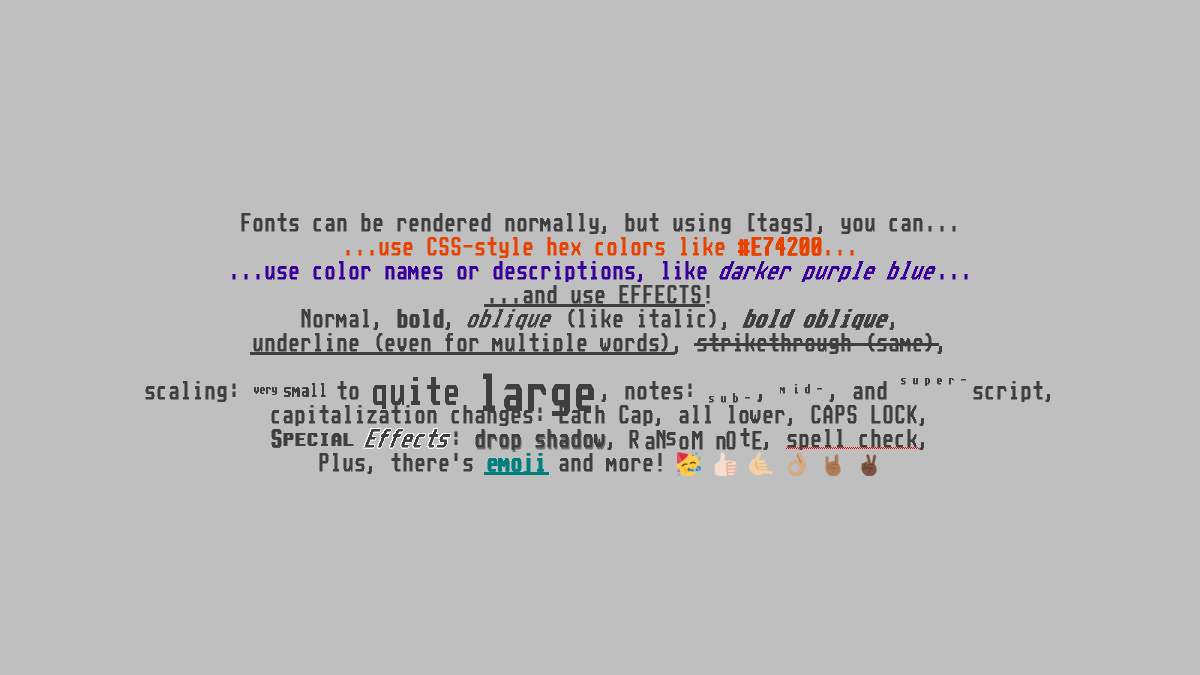
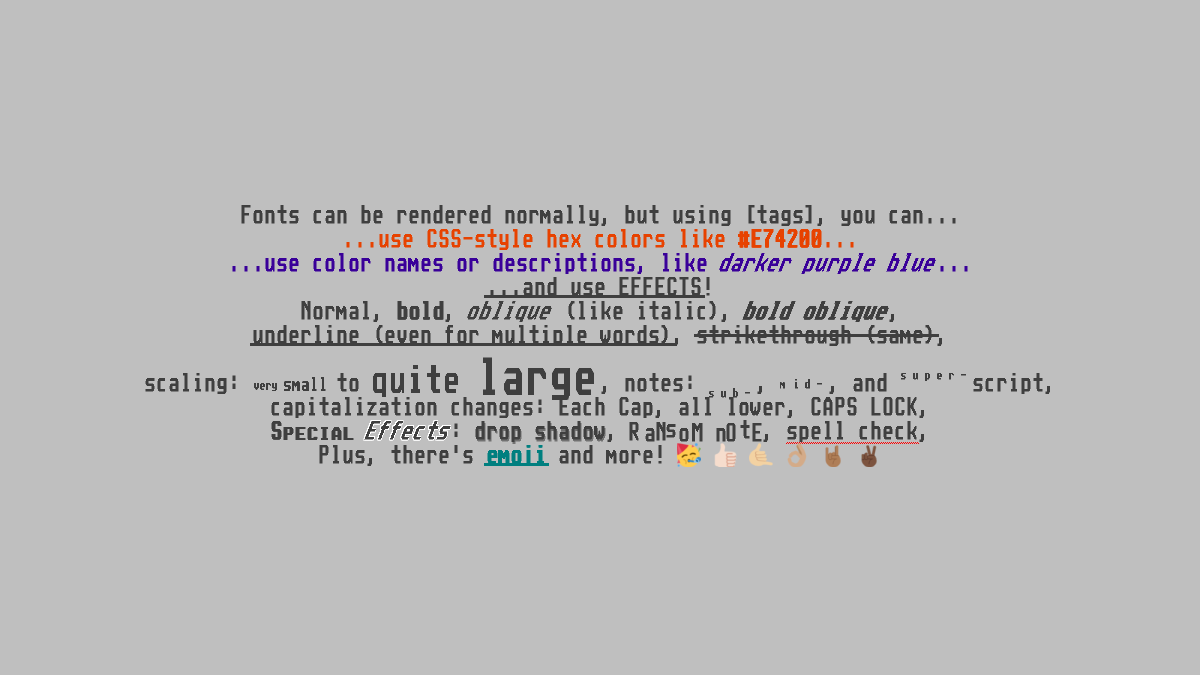
AStarry definitely had some position issues.
I think they're all fixed now.

Changed region(s): [[0.1233, 0.3111, 0.8017, 0.7156], [0.8017, 0.56, 0.8942, 0.5911]]

diff --git a/src/test/java/com/github/tommyettinger/textra/squidglyph/MinimalGridTest.java b/src/test/java/com/github/tommyettinger/textra/squidglyph/MinimalGridTest.java
@@ -17,6 +17,7 @@ import com.badlogic.gdx.utils.ScreenUtils;
 import com.github.tommyettinger.textra.Font;
 import com.github.tommyettinger.textra.KnownFonts;
 import com.github.tommyettinger.textra.TypingLabel;
+import com.github.tommyettinger.textra.utils.BlockUtils;
 
 import java.util.ArrayDeque;
 import java.util.ArrayList;
@@ -45,6 +46,8 @@ public class MinimalGridTest extends ApplicationAdapter {
     private static final int CELL_WIDTH = 32;
     private static final int CELL_HEIGHT = 32;
 
+    private static final String VALID_CHARS = "abcdefghijklmnopqrstuvwxyz" + BlockUtils.ALL_BLOCK_CHARS;
+
     public static void main(String[] args){
         Lwjgl3ApplicationConfiguration config = new Lwjgl3ApplicationConfiguration();
         config.setTitle("Traditional Roguelike Map Demo");
@@ -70,7 +73,7 @@ public class MinimalGridTest extends ApplicationAdapter {
 //                .setLineMetrics(-0.125f, -0.125f, 0f, -0.25f).setInlineImageMetrics(-8f, 24f, 0f)
 //                .setTextureFilter().setName("Iosevka Slab"));
 
-        Font font = KnownFonts.addEmoji(KnownFonts.getIosevkaSlab()
+        Font font = KnownFonts.addEmoji(KnownFonts.getAStarry()
 //                .setLineMetrics(-0.125f, -0.125f, 0f, -0.25f)
 //                .setInlineImageMetrics(-8f, 24f, 0f)
         );
@@ -282,12 +285,19 @@ public class MinimalGridTest extends ApplicationAdapter {
     }
 
     public void recolor(){
+        int idx = 0;
         for (int y = 0; y < GRID_HEIGHT; y++) {
             for (int x = 0; x < GRID_WIDTH; x++) {
                 char c = dungeon[x][y];
                 switch (c){
                     case ' ':
                         gg.backgrounds[x][y] = 0;
+                        break;
+                    case '.':
+                        gg.backgrounds[x][y] = 0x808080FF |
+                                (int)((y + ((x + y) * (x + y + 1) >> 1)) * 0x9E3779B97F4A7C15L >>> 57)
+                                        * 0x01010100;
+                        gg.put(x, y, VALID_CHARS.charAt(idx++ * idx % VALID_CHARS.length()), 0x444444FF);
                         break;
                     default:
                         gg.backgrounds[x][y] = 0x808080FF |

diff --git a/src/main/java/com/github/tommyettinger/textra/KnownFonts.java b/src/main/java/com/github/tommyettinger/textra/KnownFonts.java
@@ -108,10 +108,10 @@ public final class KnownFonts implements LifecycleListener {
         if (instance.astarry == null) {
             try {
                 instance.astarry = new Font(instance.prefix + "AStarry-standard.fnt",
-                        instance.prefix + "AStarry-standard.png", STANDARD, 0, 48, 0, 0, true)
+                        instance.prefix + "AStarry-standard.png", STANDARD, 0, 12, 0, 0, true)
                         .scaleTo(8, 8).setBoldStrength(0.5f)
-                        .setDescent(-12f).setLineMetrics(0f, -0.375f, 0f, 0f).setFancyLinePosition(0, -0.375f)
-                        .setInlineImageMetrics(-4f, 32f, 0f)
+                        .setDescent(-12f)
+                        .setInlineImageMetrics(-4f, 20f, 0f)
                         .setTextureFilter().setName("A Starry");
             } catch (Exception e) {
                 e.printStackTrace();

diff --git a/src/main/java/com/github/tommyettinger/textra/utils/BlockUtils.java b/src/main/java/com/github/tommyettinger/textra/utils/BlockUtils.java
@@ -214,4 +214,7 @@ public class BlockUtils {
             /* ▞ : u259E */ {0, 0, 0.5f, 0.5f, 0.5f, 0.5f, 0.5f, 0.5f},
             /* ▟ : u259F */ {0.5f, 0, 0.5f, 1, 0, 0, 0.5f, 0.5f}
     };
+
+    public static final String ALL_BLOCK_CHARS =
+            "─━│┃┄┅┆┇┈┉┊┋┌┍┎┏┐┑┒┓└┕┖┗┘┙┚┛├┝┞┟┠┡┢┣┤┥┦┧┨┩┪┫┬┭┮┯┰┱┲┳┴┵┶┷┸┹┺┻┼┽┾┿╀╁╂╃╄╅╆╇╈╉╊╋╌╍╎╏═║╒╓╔╕╖╗╘╙╚╛╜╝╞╟╠╡╢╣╤╥╦╧╨╩╪╫╬╴╵╶╷╸╹╺╻╼╽╾╿▀▁▂▃▄▅▆▇█▉▊▋▌▍▎▏▐▔▕▖▗▘▙▚▛▜▝▞▟";
 }
